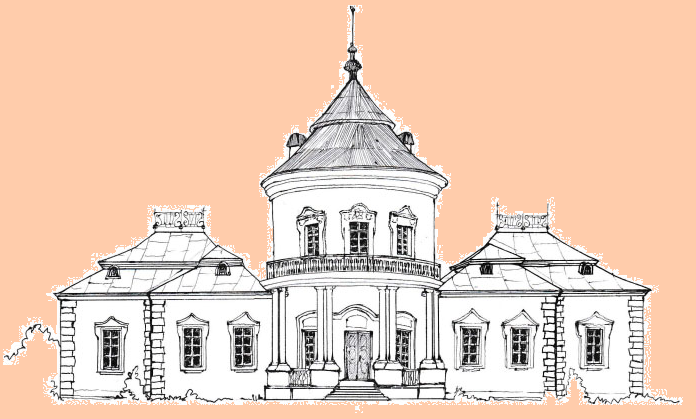
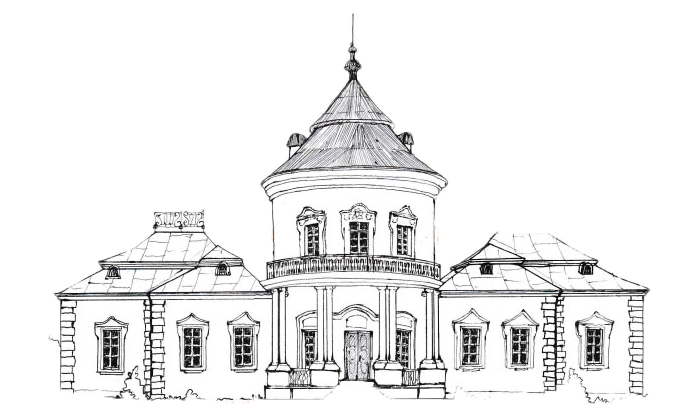
fixed first bags

diff --git a/games.html b/games.html
@@ -20,8 +20,7 @@
     GurGames | Гуров Матвей
 </h1>
 <br>
-<br>
-<br>
+
 <h2 align="center">Готовые проекты:</h2>
 <h2 align="center">missiles!</h2>
 <h4 align="center">"can you avoid them all?"</h4>

diff --git a/index.html b/index.html
@@ -6,7 +6,7 @@
     <title>GurHouse</title>
     <style>
         body{
-            background-color: #ffccab;
+            background-color: #ffffff;
             font-size: 30px;
 
         }
